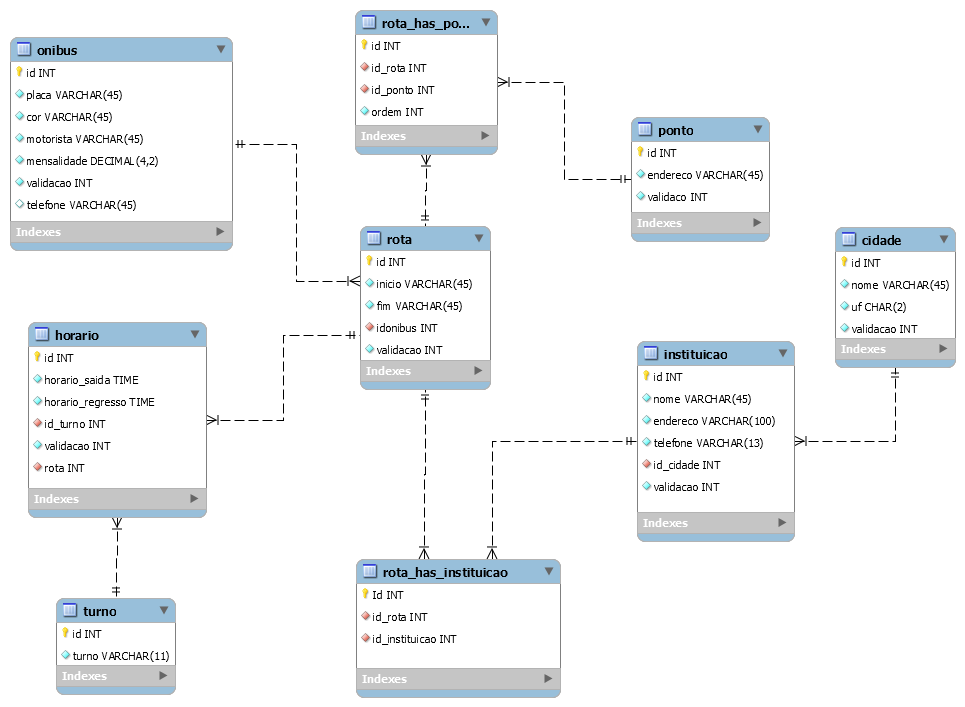
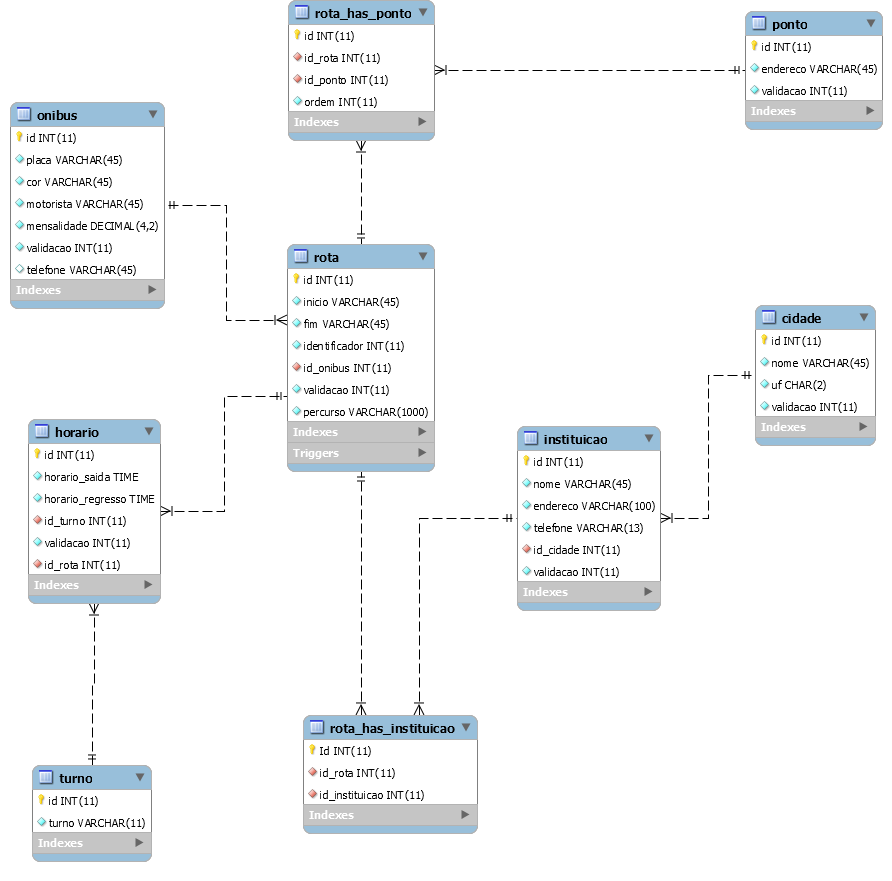
Criei atributo Identificador para a Rota e Trigger no banco

diff --git a/Projeto/src/dao/RotaDAO.java b/Projeto/src/dao/RotaDAO.java
@@ -21,7 +21,7 @@ public class RotaDAO {
 	
 	public boolean inserirRota(Rota rota){
         try {
-            String sql = "INSERT INTO rota (inicio, fim) VALUES (?, ?)";
+            String sql = "INSERT INTO rota (inicio, fim, identificador) VALUES (?, ?)";
             this.stmt = this.conexao.prepareStatement(sql);
             this.stmt.setString(1, rota.getInicio());
             this.stmt.setString(2, rota.getFim());
@@ -59,7 +59,7 @@ public class RotaDAO {
 
     public boolean editarPonto(Rota rota, Ponto ponto){
         try {
-            String sql = "UPDATE rota_has_ponto SET ordem = ? WHERE id_rota = ? AND id_ponto";
+            String sql = "UPDATE rota_has_ponto SET ordem = ? WHERE id_rota = ? AND id_ponto = ?";
             this.stmt = this.conexao.prepareStatement(sql);
             this.stmt.setInt(1, ponto.getOrdem());
             this.stmt.setInt(2, rota.getId());
@@ -125,7 +125,7 @@ public class RotaDAO {
             HorarioDAO hDAO = new HorarioDAO();
             while(rs.next()) {
             	aux = false;
-            	rota = new Rota(rs.getInt("id"),  rs.getString("inicio"), rs.getString("fim"), rs.getString("percurso"));
+            	rota = new Rota(rs.getInt("id"),  rs.getString("inicio"), rs.getString("fim"), rs.getString("percurso"), rs.getInt("identificador"));
                 rota.setInstituicoes(iDAO.consultarIdRota(rota, comparador));
                 rota.setPontos(pDAO.consultarIdRota(rota, comparador));
                 rota.setHorarios(hDAO.consultarIdRota(rota, comparador));
@@ -140,6 +140,46 @@ public class RotaDAO {
             throw new RuntimeException(e);
         }
 	}
+	
+	public Rota consultarIdentificador(Onibus onibus, int identificador, int comparador){
+		try {
+			String sql = "";
+			switch(comparador) {
+    		case 0:
+    			sql = "SELECT * FROM rota WHERE id_onibus = ? AND identificador = ? AND validacao = 0";
+    			break;
+			case 1:
+				sql = "SELECT * FROM rota WHERE id_onibus = ? AND identificador = ? AND validacao = 1";
+    			break;
+			
+        	}
+			this.stmt = this.conexao.prepareStatement(sql);
+			this.stmt.setInt(1, onibus.getId());
+			this.stmt.setInt(2, identificador);
+            ResultSet rs = stmt.executeQuery();
+            boolean aux = true;
+            Rota rota = new Rota();
+            InstituicaoDAO iDAO = new InstituicaoDAO();
+            PontoDAO pDAO = new PontoDAO();
+            HorarioDAO hDAO = new HorarioDAO();
+            while(rs.next()) {
+            	aux = false;
+            	rota = new Rota(rs.getInt("id"),  rs.getString("inicio"), rs.getString("fim"), rs.getString("percurso"), rs.getInt("identificador"));
+                rota.setInstituicoes(iDAO.consultarIdRota(rota, comparador));
+                rota.setPontos(pDAO.consultarIdRota(rota, comparador));
+                rota.setHorarios(hDAO.consultarIdRota(rota, comparador));
+       
+            }
+            if(aux) {
+            	rota = new Rota();
+            }
+            this.stmt.close();
+            return rota;
+        } catch (Exception e) {
+            throw new RuntimeException(e);
+        }
+	}
+	
 	
 	public ArrayList<Rota> consultarInicio(Rota rota, int comparador){
 		return this.consultarRota("inicio", rota.getInicio(), comparador);

diff --git a/Projeto/src/model/Rota.java b/Projeto/src/model/Rota.java
@@ -11,6 +11,7 @@ public class Rota{
     private ArrayList<Instituicao> instituicoes = new ArrayList<Instituicao>();
     private ArrayList<Horario> horarios = new ArrayList<Horario>();
     private int validacao = 0;
+    private int identificador;
     
 	public Rota(int id, String inicio, String fim, String percurso) {
 		this.id = id;
@@ -22,6 +23,13 @@ public class Rota{
 		this.inicio = inicio;
 		this.fim = fim;
 		this.percurso = percurso;
+	}
+	public Rota(int id, String inicio, String fim, String percurso, int identificador) {
+		this.id = id;
+		this.inicio = inicio;
+		this.fim = fim;
+		this.percurso = percurso;
+		this.identificador = identificador;
 	}
 	public Rota() {
 		
@@ -92,5 +100,11 @@ public class Rota{
 	}
 	public void setPercurso(String percurso) {
 		this.percurso = percurso;
+	}
+	public int getIdentificador() {
+		return identificador;
+	}
+	public void setIdentificador(int identificador) {
+		this.identificador = identificador;
 	}
 }
